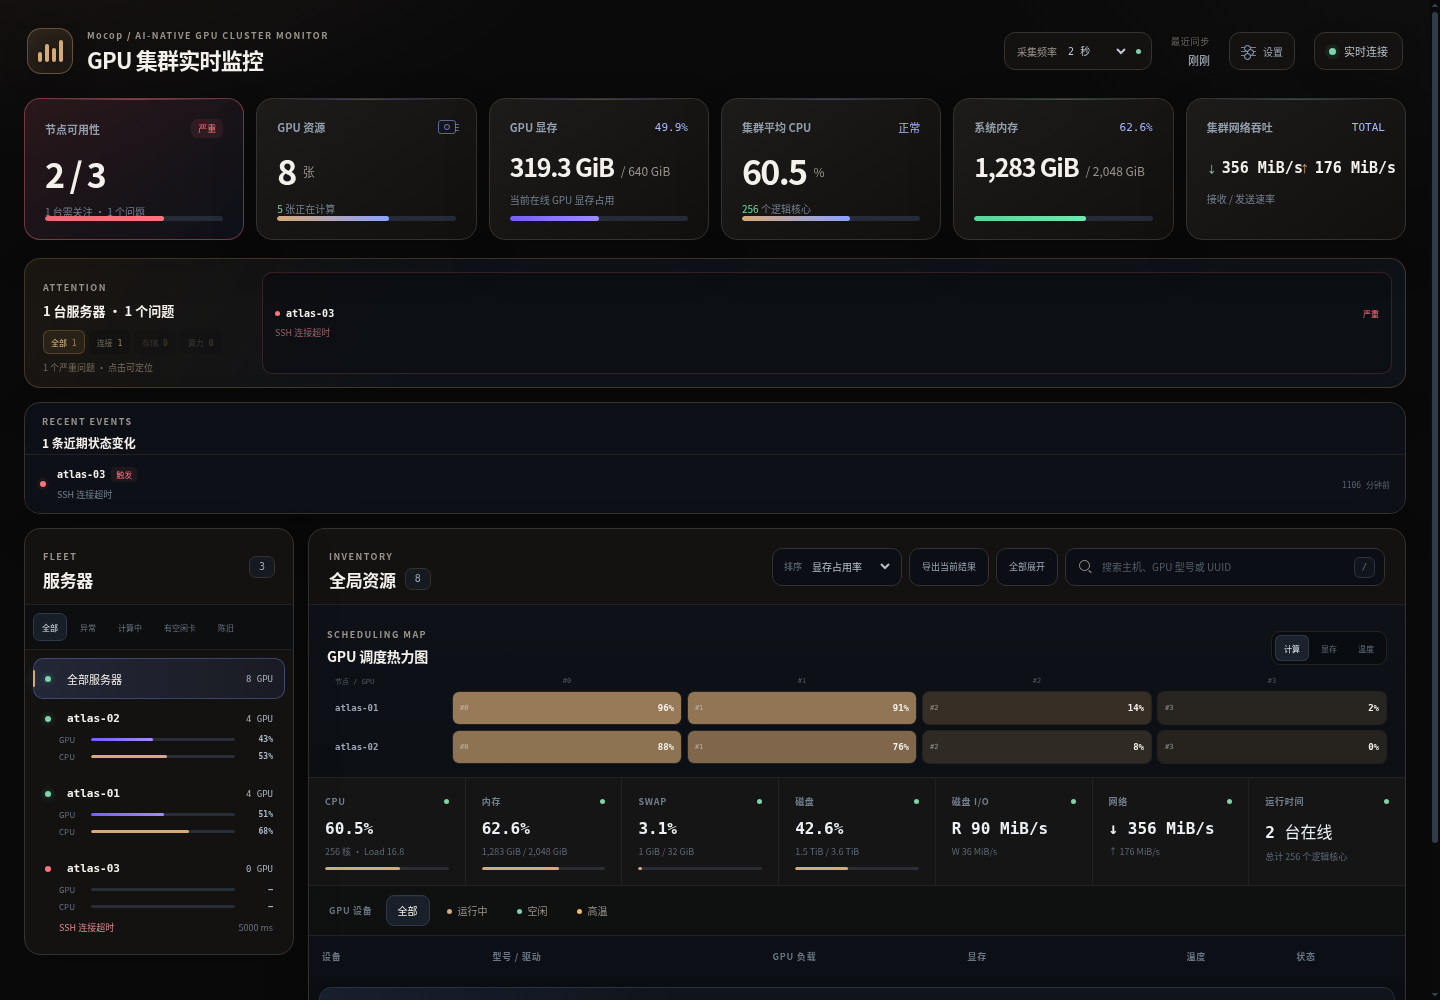
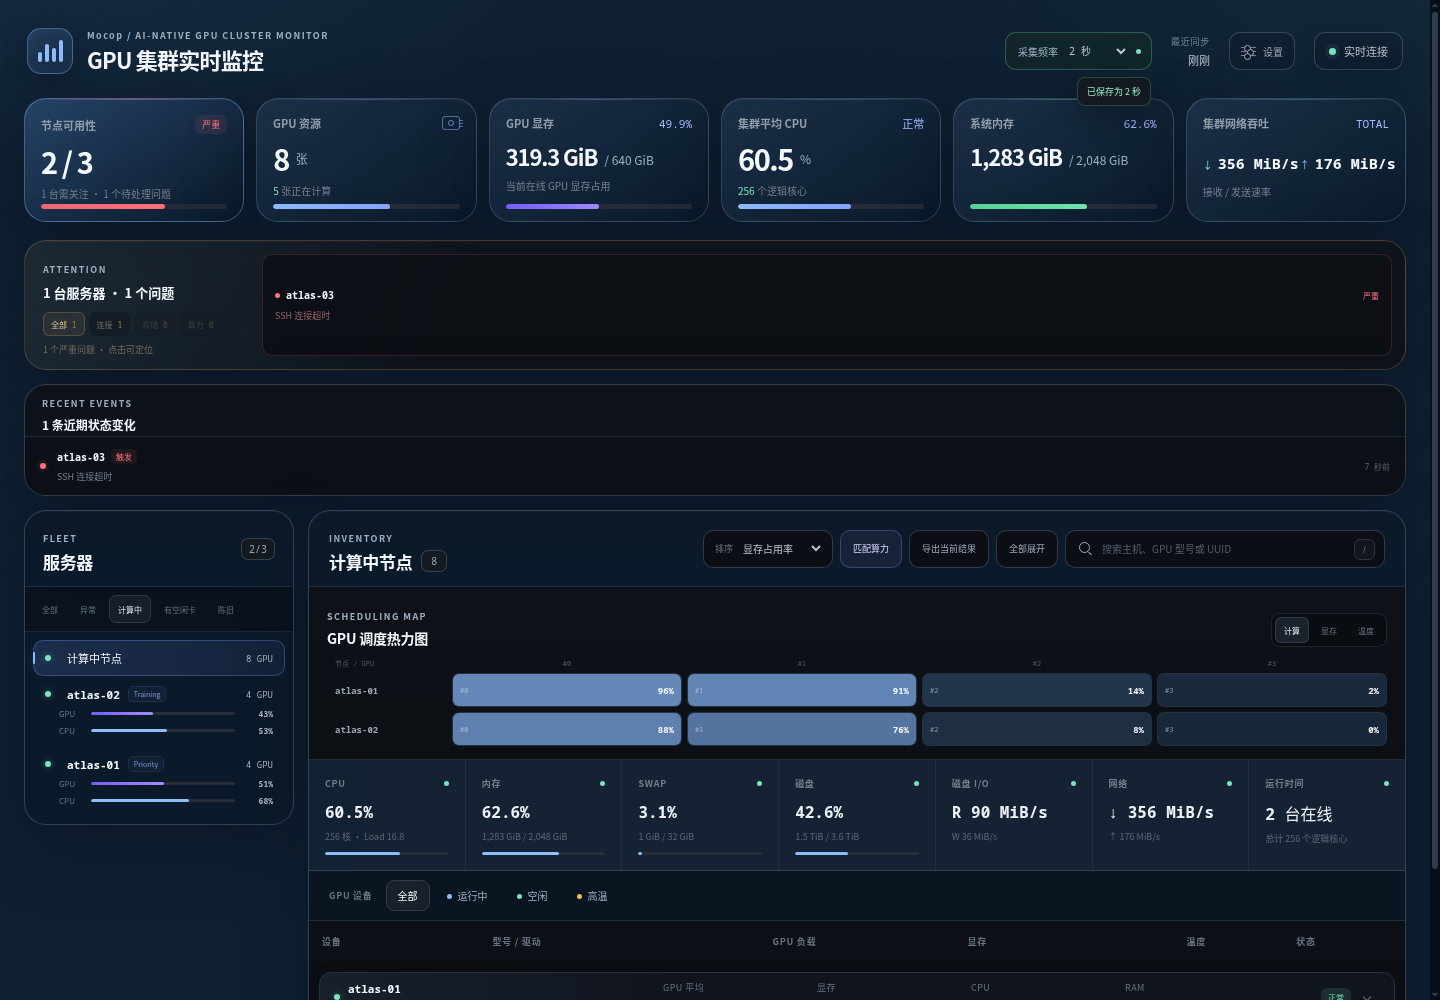
[docs/readme/document]: refresh dashboard preview

diff --git a/tests/browser_fixture.py b/tests/browser_fixture.py
@@ -3,6 +3,7 @@ from __future__ import annotations
 import sys
 import threading
 import time
+from datetime import datetime, timezone
 
 from mocop.inventory import InventoryRequestError
 from mocop.models import (
@@ -175,6 +176,7 @@ def system(hostname: str, cpu: float, memory_used: float) -> SystemMetrics:
 
 
 def demo_state() -> StateStore:
+    observed_at = datetime.now(timezone.utc).isoformat().replace("+00:00", "Z")
     state = StateStore(
         5,
         host_groups=(
@@ -195,7 +197,7 @@ def demo_state() -> StateStore:
                 gpu("atlas-01", 2, 14, 38_400, 57),
                 gpu("atlas-01", 3, 2, 2_048, 35),
             ),
-            observed_at="2026-08-09T09:30:00Z",
+            observed_at=observed_at,
             system=system("atlas-01", 68, 712_704),
         )
     )
@@ -210,7 +212,7 @@ def demo_state() -> StateStore:
                 gpu("atlas-02", 2, 8, 12_288, 42),
                 gpu("atlas-02", 3, 0, 1_024, 32),
             ),
-            observed_at="2026-08-09T09:30:00Z",
+            observed_at=observed_at,
             system=system("atlas-02", 53, 601_088),
         )
     )
@@ -220,7 +222,7 @@ def demo_state() -> StateStore:
             status="unreachable",
             latency_ms=5_000,
             message="SSH connection timed out",
-            observed_at="2026-08-09T09:30:00Z",
+            observed_at=observed_at,
         )
     )
     state.record_poll_cycle(0.42)
